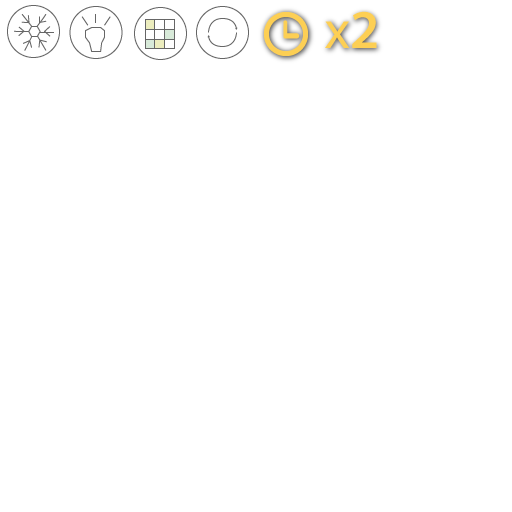
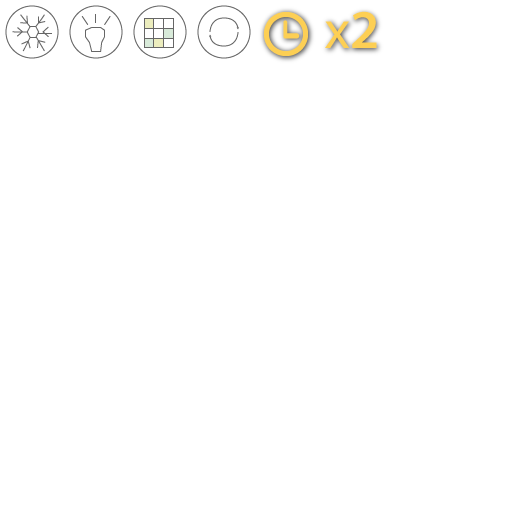
Finally drawing smooth lines.

diff --git a/MatchTwo/MTAbilityButton.m b/MatchTwo/MTAbilityButton.m
@@ -98,10 +98,21 @@ CGRect rectForIndex(int index){
               kMTColorActive.g/255.0,
               kMTColorActive.b/255.0,
               0.6);
+    // Stroke Once Outside
     ccDrawCircleSegmentAA(ccp(kMTAbilityButtonSize/2, kMTAbilityButtonSize/2),
                         26,
                         CC_DEGREES_TO_RADIANS(360*cooldownPercentage),
+                        1.0f,
                         round(cooldownPercentage*20));    
+    
+    // Stroke once inside
+    ccDrawCircleSegmentAA(ccp(kMTAbilityButtonSize/2, kMTAbilityButtonSize/2),
+                          26,
+                          CC_DEGREES_TO_RADIANS(360*cooldownPercentage),
+                          -1.0f,
+                          round(cooldownPercentage*20));    
+
+    
 //    ccDrawCircleSegment(ccp(kMTAbilityButtonSize/2, kMTAbilityButtonSize/2),
 //                 26,
 //                 CC_DEGREES_TO_RADIANS(360*cooldownPercentage),

diff --git a/MatchTwo/CCDrawingPrimitives+MT.m b/MatchTwo/CCDrawingPrimitives+MT.m
@@ -109,11 +109,11 @@ void ccDrawCircleSegment( CGPoint center, float r, float a, NSUInteger segs, BOO
 	
 	free( vertices );
 }
-void ccDrawCircleSegmentAA( CGPoint center, float r, float a, NSUInteger segs)
+
+// Stroke with Anti-Alias, Add an extra transparent vertex on the other side of the stroke.
+void ccDrawCircleSegmentAA( CGPoint center, float r, float a, float lineWidth, NSUInteger segs)
 {
-    GLubyte color[4] = {0,0,0,153};
-    float lineWidth = 2.0f;
-	int additionalSegment = 1;
+    GLubyte color[4] = {102,102,102,255};
     
 	const float coef = a/segs;
 	
@@ -165,6 +165,7 @@ void ccDrawCircleSegmentAA( CGPoint center, float r, float a, NSUInteger segs)
 	glEnableClientState(GL_TEXTURE_COORD_ARRAY);
 	glEnable(GL_TEXTURE_2D);	
 	
+    free(colors);
 	free( vertices );
 }
 

diff --git a/MatchTwo/CCDrawingPrimitives+MT.h b/MatchTwo/CCDrawingPrimitives+MT.h
@@ -12,6 +12,6 @@
 
 void ccDrawPolyFill( const CGPoint *poli, NSUInteger numberOfPoints, BOOL closePolygon );
 void ccDrawCircleSegment( CGPoint center, float r, float a, NSUInteger segs, BOOL drawLineToCenter);
-void ccDrawCircleSegmentAA( CGPoint center, float r, float a, NSUInteger segs);
+void ccDrawCircleSegmentAA( CGPoint center, float r, float a, float lineWidth, NSUInteger segs);
 void ccDrawCircleSegmentFill( CGPoint center, float r, float a, NSUInteger segs);
 #endif
